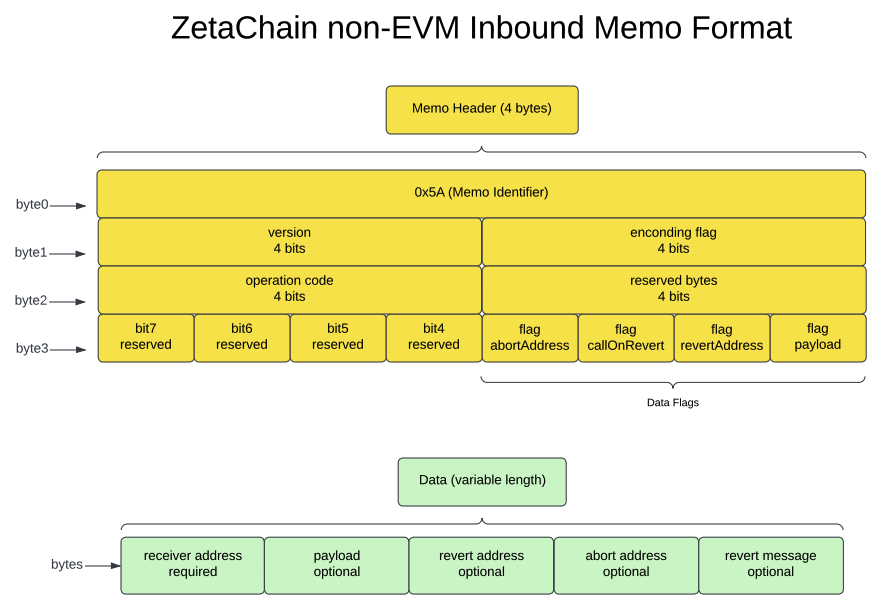
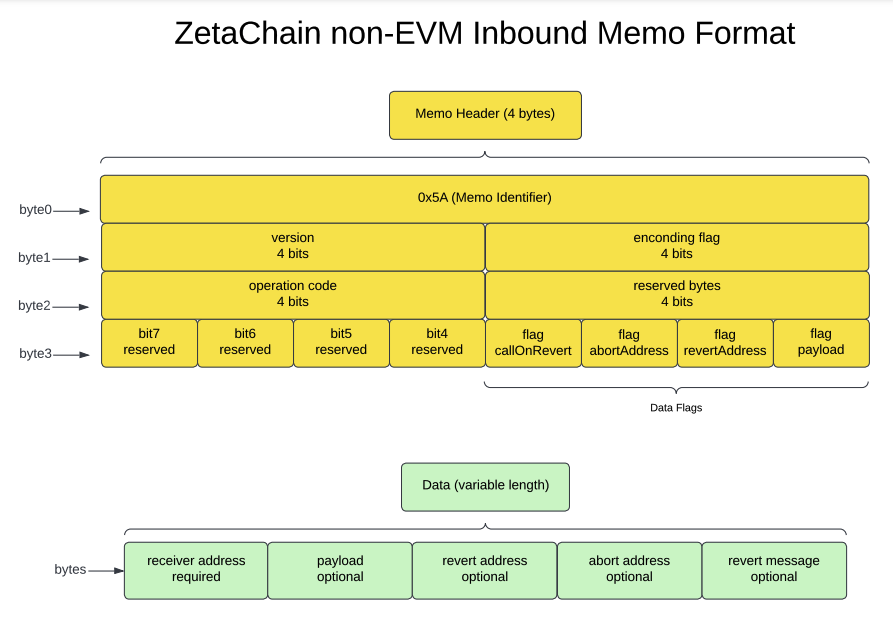
correct the flag positions of CallOnRevert and AbortAddress

Changed region(s): [[0.0, 0.1244, 1.0, 0.6841], [0.0612, 0.7152, 0.9796, 0.9951], [0.1837, 0.0311, 0.9184, 0.0933]]

diff --git a/docs/rfc/002_standard_memo_format.md b/docs/rfc/002_standard_memo_format.md
@@ -90,8 +90,8 @@ The ASCII code `0x5A` of letter `'Z'` is used as the identifier of the standard 
 
 |                 | bit 7         | bit 6        | bit 5         | bit 4             | bit 3            | bit 2            | bit 1             | bit 0            |
 |-----------------|---------------|--------------|---------------|-------------------|------------------|------------------|-------------------|------------------|
-| **Name**        | flag reserved | flag reserved| flag reserved | flag reserved     | flag AbortAddress| flag CallOnRevert| flag RevertAddress| flag Payload     |
-| **Optional**    | --            | --           | --            | Yes               | Yes              | Yes              | Yes               | Yes              |
+| **Name**        | flag reserved | flag reserved| flag reserved | flag reserved     | flag CallOnRevert| flag AbortAddress| flag RevertAddress| flag Payload     |
+| **Optional**    | --            | --           | --            | --                | Yes              | Yes              | Yes               | Yes              |
 <br>
 
 Supported `operation codes` :
